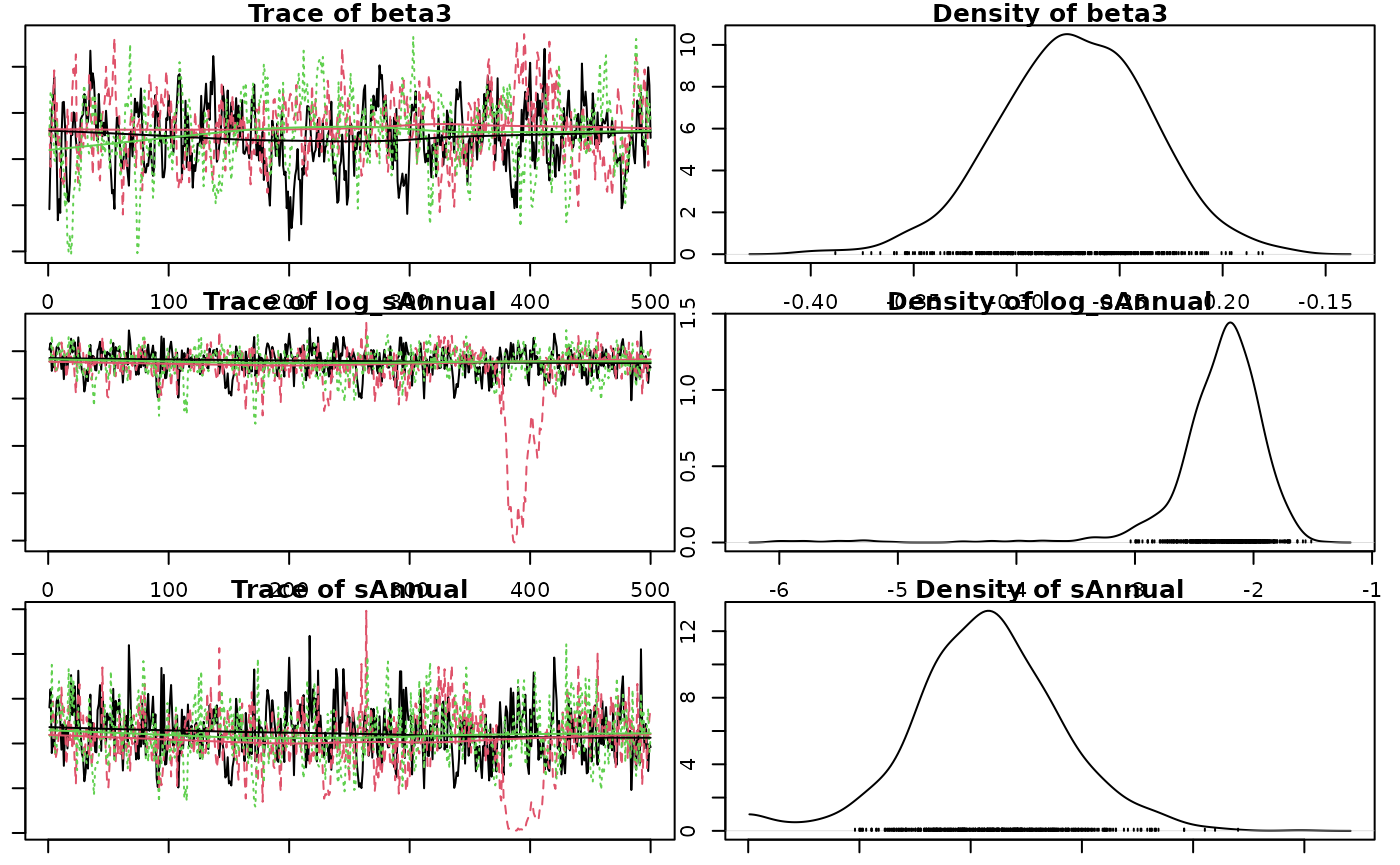
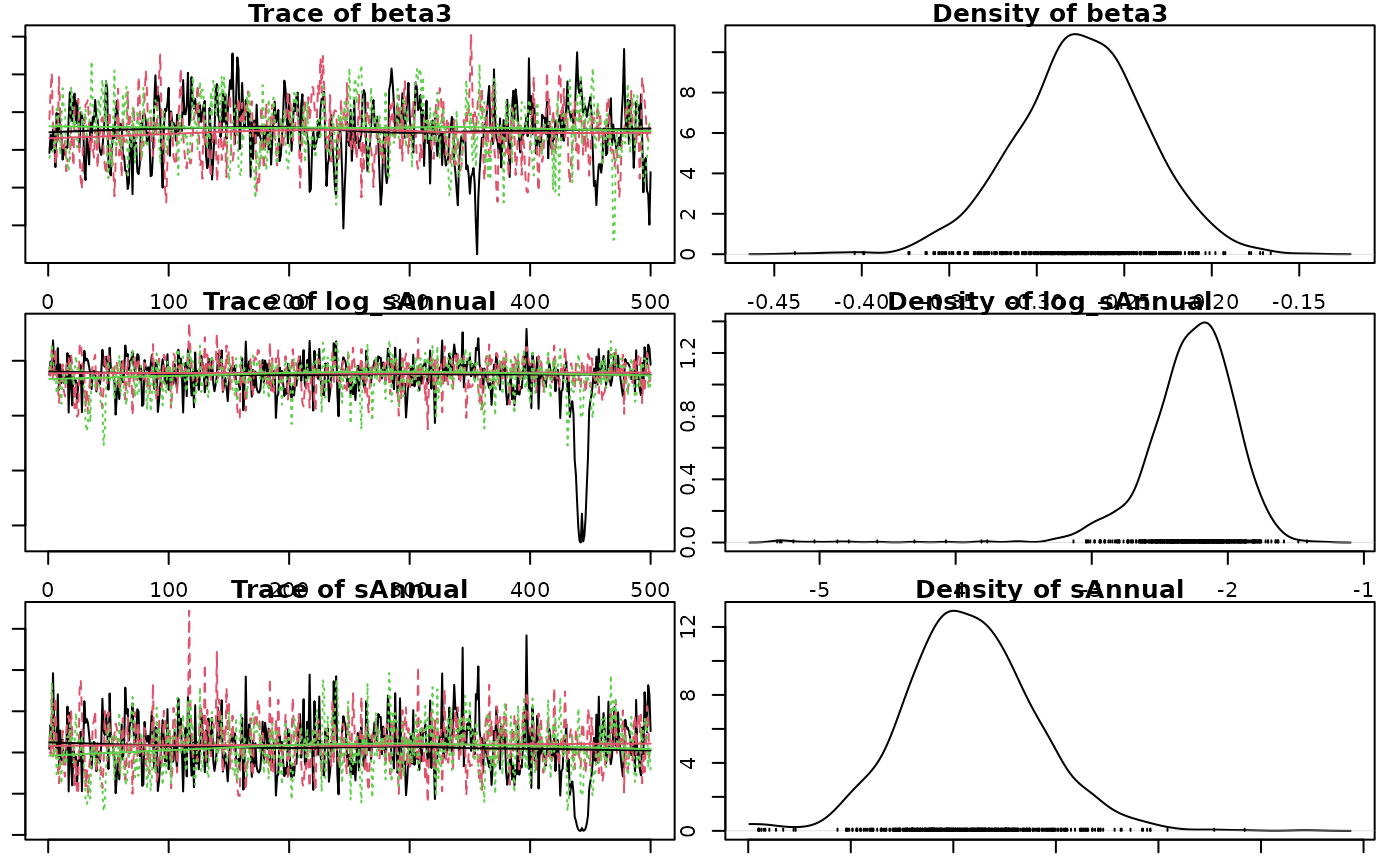
Built site for jmbr@0.0.0.9133: 58ec0a5

diff --git a/articles/jmbr.html b/articles/jmbr.html
@@ -285,14 +285,14 @@ value and discarding all other values.</p>
 <span><span class="co">#&gt; <span style="color: #949494;"># A tibble: 1 × 8</span></span></span>
 <span><span class="co">#&gt;       n     K nchains niters nthin   ess  rhat converged</span></span>
 <span><span class="co">#&gt;   <span style="color: #949494; font-style: italic;">&lt;int&gt;</span> <span style="color: #949494; font-style: italic;">&lt;int&gt;</span>   <span style="color: #949494; font-style: italic;">&lt;int&gt;</span>  <span style="color: #949494; font-style: italic;">&lt;int&gt;</span> <span style="color: #949494; font-style: italic;">&lt;int&gt;</span> <span style="color: #949494; font-style: italic;">&lt;int&gt;</span> <span style="color: #949494; font-style: italic;">&lt;dbl&gt;</span> <span style="color: #949494; font-style: italic;">&lt;lgl&gt;</span>    </span></span>
-<span><span class="co">#&gt; <span style="color: #BCBCBC;">1</span>    40     6       3    500    10   236  1.04 TRUE</span></span>
+<span><span class="co">#&gt; <span style="color: #BCBCBC;">1</span>    40     6       3    500    10   138  1.07 FALSE</span></span>
 <span><span class="co">#&gt; Warning in value[[3L]](cond): beep() could not play the sound due to the following error:</span></span>
 <span><span class="co">#&gt; Error in play.default(x, rate, ...): no audio drivers are available</span></span>
 <span><span class="va">analysis</span> <span class="op">&lt;-</span> <span class="fu"><a href="https://rdrr.io/pkg/embr/man/reanalyse.html" class="external-link">reanalyse</a></span><span class="op">(</span><span class="va">analysis</span><span class="op">)</span></span>
 <span><span class="co">#&gt; <span style="color: #949494;"># A tibble: 1 × 8</span></span></span>
 <span><span class="co">#&gt;       n     K nchains niters nthin   ess  rhat converged</span></span>
 <span><span class="co">#&gt;   <span style="color: #949494; font-style: italic;">&lt;int&gt;</span> <span style="color: #949494; font-style: italic;">&lt;int&gt;</span>   <span style="color: #949494; font-style: italic;">&lt;int&gt;</span>  <span style="color: #949494; font-style: italic;">&lt;int&gt;</span> <span style="color: #949494; font-style: italic;">&lt;int&gt;</span> <span style="color: #949494; font-style: italic;">&lt;int&gt;</span> <span style="color: #949494; font-style: italic;">&lt;dbl&gt;</span> <span style="color: #949494; font-style: italic;">&lt;lgl&gt;</span>    </span></span>
-<span><span class="co">#&gt; <span style="color: #BCBCBC;">1</span>    40     6       3    500    10   236  1.04 TRUE</span></span>
+<span><span class="co">#&gt; <span style="color: #BCBCBC;">1</span>    40     6       3    500    20   486  1.01 TRUE</span></span>
 <span><span class="co">#&gt; Warning in value[[3L]](cond): beep() could not play the sound due to the following error:</span></span>
 <span><span class="co">#&gt; Error in play.default(x, rate, ...): no audio drivers are available</span></span></code></pre></div>
 <p><strong>Analysis Table:</strong></p>
@@ -342,12 +342,12 @@ between- and within-chain estimates for model parameters.
 <span><span class="co">#&gt; <span style="color: #949494;"># A tibble: 6 × 7</span></span></span>
 <span><span class="co">#&gt;   term        estimate     sd  zscore   lower   upper   pvalue</span></span>
 <span><span class="co">#&gt;   <span style="color: #949494; font-style: italic;">&lt;term&gt;</span>         <span style="color: #949494; font-style: italic;">&lt;dbl&gt;</span>  <span style="color: #949494; font-style: italic;">&lt;dbl&gt;</span>   <span style="color: #949494; font-style: italic;">&lt;dbl&gt;</span>   <span style="color: #949494; font-style: italic;">&lt;dbl&gt;</span>   <span style="color: #949494; font-style: italic;">&lt;dbl&gt;</span>    <span style="color: #949494; font-style: italic;">&lt;dbl&gt;</span></span></span>
-<span><span class="co">#&gt; <span style="color: #BCBCBC;">1</span> alpha         4.26   0.040<span style="text-decoration: underline;">2</span> 106.     4.18    4.34   0.000<span style="text-decoration: underline;">666</span></span></span>
-<span><span class="co">#&gt; <span style="color: #BCBCBC;">2</span> beta1         1.19   0.071<span style="text-decoration: underline;">6</span>  16.7    1.06    1.34   0.000<span style="text-decoration: underline;">666</span></span></span>
-<span><span class="co">#&gt; <span style="color: #BCBCBC;">3</span> beta2        -<span style="color: #BB0000;">0.016</span><span style="color: #BB0000; text-decoration: underline;">6</span> 0.031<span style="text-decoration: underline;">0</span>  -<span style="color: #BB0000;">0.538</span> -<span style="color: #BB0000;">0.077</span><span style="color: #BB0000; text-decoration: underline;">6</span>  0.044<span style="text-decoration: underline;">4</span> 0.572   </span></span>
-<span><span class="co">#&gt; <span style="color: #BCBCBC;">4</span> beta3        -<span style="color: #BB0000;">0.272</span>  0.036<span style="text-decoration: underline;">8</span>  -<span style="color: #BB0000;">7.38</span>  -<span style="color: #BB0000;">0.349</span>  -<span style="color: #BB0000;">0.200</span>  0.000<span style="text-decoration: underline;">666</span></span></span>
-<span><span class="co">#&gt; <span style="color: #BCBCBC;">5</span> log_sAnnual  -<span style="color: #BB0000;">2.23</span>   0.474   -<span style="color: #BB0000;">4.85</span>  -<span style="color: #BB0000;">3.29</span>   -<span style="color: #BB0000;">1.74</span>   0.000<span style="text-decoration: underline;">666</span></span></span>
-<span><span class="co">#&gt; <span style="color: #BCBCBC;">6</span> sAnnual       0.108  0.033<span style="text-decoration: underline;">4</span>   3.22   0.037<span style="text-decoration: underline;">2</span>  0.176  0.000<span style="text-decoration: underline;">666</span></span></span></code></pre></div>
+<span><span class="co">#&gt; <span style="color: #BCBCBC;">1</span> alpha         4.26   0.038<span style="text-decoration: underline;">2</span> 111.     4.18    4.33   0.000<span style="text-decoration: underline;">666</span></span></span>
+<span><span class="co">#&gt; <span style="color: #BCBCBC;">2</span> beta1         1.20   0.071<span style="text-decoration: underline;">1</span>  16.9    1.07    1.35   0.000<span style="text-decoration: underline;">666</span></span></span>
+<span><span class="co">#&gt; <span style="color: #BCBCBC;">3</span> beta2        -<span style="color: #BB0000;">0.018</span><span style="color: #BB0000; text-decoration: underline;">0</span> 0.029<span style="text-decoration: underline;">2</span>  -<span style="color: #BB0000;">0.609</span> -<span style="color: #BB0000;">0.077</span><span style="color: #BB0000; text-decoration: underline;">0</span>  0.039<span style="text-decoration: underline;">1</span> 0.528   </span></span>
+<span><span class="co">#&gt; <span style="color: #BCBCBC;">4</span> beta3        -<span style="color: #BB0000;">0.274</span>  0.037<span style="text-decoration: underline;">3</span>  -<span style="color: #BB0000;">7.35</span>  -<span style="color: #BB0000;">0.352</span>  -<span style="color: #BB0000;">0.204</span>  0.000<span style="text-decoration: underline;">666</span></span></span>
+<span><span class="co">#&gt; <span style="color: #BCBCBC;">5</span> log_sAnnual  -<span style="color: #BB0000;">2.24</span>   0.370   -<span style="color: #BB0000;">6.15</span>  -<span style="color: #BB0000;">3.01</span>   -<span style="color: #BB0000;">1.75</span>   0.000<span style="text-decoration: underline;">666</span></span></span>
+<span><span class="co">#&gt; <span style="color: #BCBCBC;">6</span> sAnnual       0.107  0.031<span style="text-decoration: underline;">8</span>   3.40   0.049<span style="text-decoration: underline;">1</span>  0.173  0.000<span style="text-decoration: underline;">666</span></span></span></code></pre></div>
 <p>The estimate is the <strong>median</strong> by default.</p>
 <p>The zscore is <span class="math inline">mean / sd</span>.</p>
 <div class="sourceCode" id="cb12"><pre class="downlit sourceCode r">
@@ -355,12 +355,12 @@ between- and within-chain estimates for model parameters.
 <span><span class="co">#&gt; <span style="color: #949494;"># A tibble: 6 × 5</span></span></span>
 <span><span class="co">#&gt;   term        estimate   lower   upper svalue</span></span>
 <span><span class="co">#&gt;   <span style="color: #949494; font-style: italic;">&lt;term&gt;</span>         <span style="color: #949494; font-style: italic;">&lt;dbl&gt;</span>   <span style="color: #949494; font-style: italic;">&lt;dbl&gt;</span>   <span style="color: #949494; font-style: italic;">&lt;dbl&gt;</span>  <span style="color: #949494; font-style: italic;">&lt;dbl&gt;</span></span></span>
-<span><span class="co">#&gt; <span style="color: #BCBCBC;">1</span> alpha         4.26    4.18    4.34   10.6  </span></span>
-<span><span class="co">#&gt; <span style="color: #BCBCBC;">2</span> beta1         1.19    1.06    1.34   10.6  </span></span>
-<span><span class="co">#&gt; <span style="color: #BCBCBC;">3</span> beta2        -<span style="color: #BB0000;">0.016</span><span style="color: #BB0000; text-decoration: underline;">6</span> -<span style="color: #BB0000;">0.077</span><span style="color: #BB0000; text-decoration: underline;">6</span>  0.044<span style="text-decoration: underline;">4</span>  0.805</span></span>
-<span><span class="co">#&gt; <span style="color: #BCBCBC;">4</span> beta3        -<span style="color: #BB0000;">0.272</span>  -<span style="color: #BB0000;">0.349</span>  -<span style="color: #BB0000;">0.200</span>  10.6  </span></span>
-<span><span class="co">#&gt; <span style="color: #BCBCBC;">5</span> log_sAnnual  -<span style="color: #BB0000;">2.23</span>   -<span style="color: #BB0000;">3.29</span>   -<span style="color: #BB0000;">1.74</span>   10.6  </span></span>
-<span><span class="co">#&gt; <span style="color: #BCBCBC;">6</span> sAnnual       0.108   0.037<span style="text-decoration: underline;">2</span>  0.176  10.6</span></span></code></pre></div>
+<span><span class="co">#&gt; <span style="color: #BCBCBC;">1</span> alpha         4.26    4.18    4.33   10.6  </span></span>
+<span><span class="co">#&gt; <span style="color: #BCBCBC;">2</span> beta1         1.20    1.07    1.35   10.6  </span></span>
+<span><span class="co">#&gt; <span style="color: #BCBCBC;">3</span> beta2        -<span style="color: #BB0000;">0.018</span><span style="color: #BB0000; text-decoration: underline;">0</span> -<span style="color: #BB0000;">0.077</span><span style="color: #BB0000; text-decoration: underline;">0</span>  0.039<span style="text-decoration: underline;">1</span>  0.921</span></span>
+<span><span class="co">#&gt; <span style="color: #BCBCBC;">4</span> beta3        -<span style="color: #BB0000;">0.274</span>  -<span style="color: #BB0000;">0.352</span>  -<span style="color: #BB0000;">0.204</span>  10.6  </span></span>
+<span><span class="co">#&gt; <span style="color: #BCBCBC;">5</span> log_sAnnual  -<span style="color: #BB0000;">2.24</span>   -<span style="color: #BB0000;">3.01</span>   -<span style="color: #BB0000;">1.75</span>   10.6  </span></span>
+<span><span class="co">#&gt; <span style="color: #BCBCBC;">6</span> sAnnual       0.107   0.049<span style="text-decoration: underline;">1</span>  0.173  10.6</span></span></code></pre></div>
 <p>The s-value is the <strong>suprisal</strong> value, which is a
 measure of directionality with respect to zero.</p>
 <p>The s-value is zero (unsurprising) when <em>p-value</em> = 1.0 and
